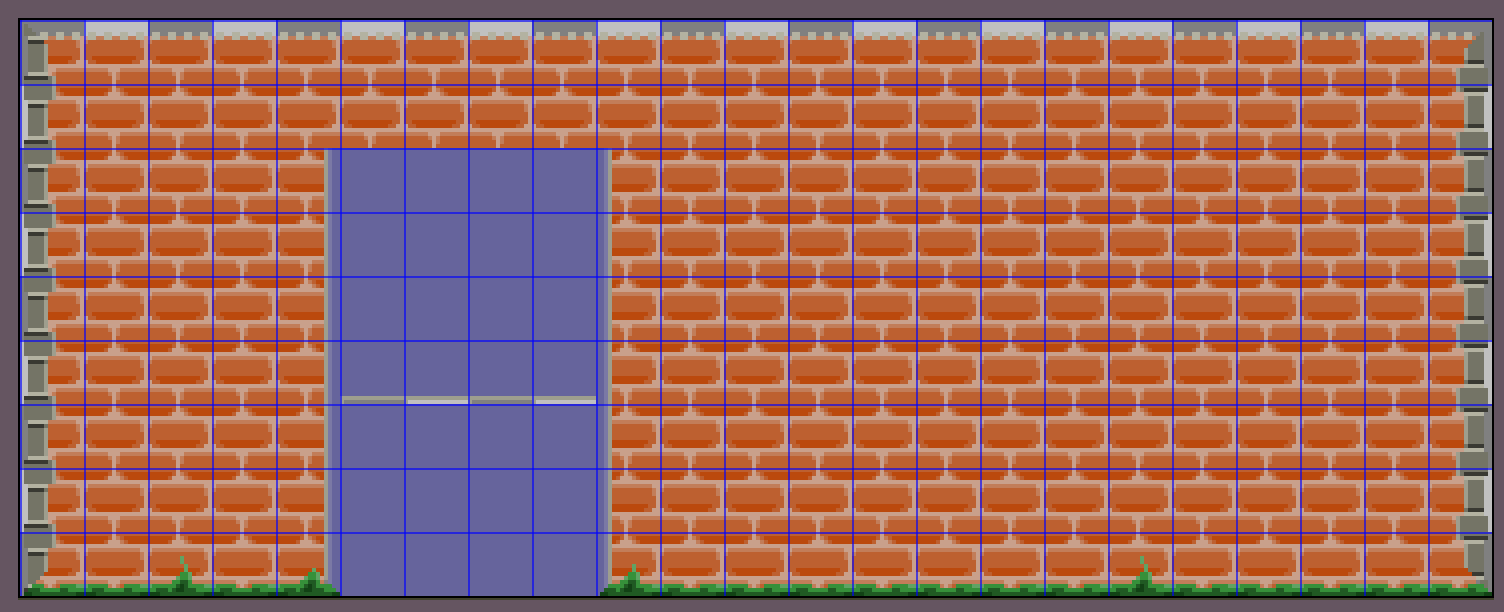
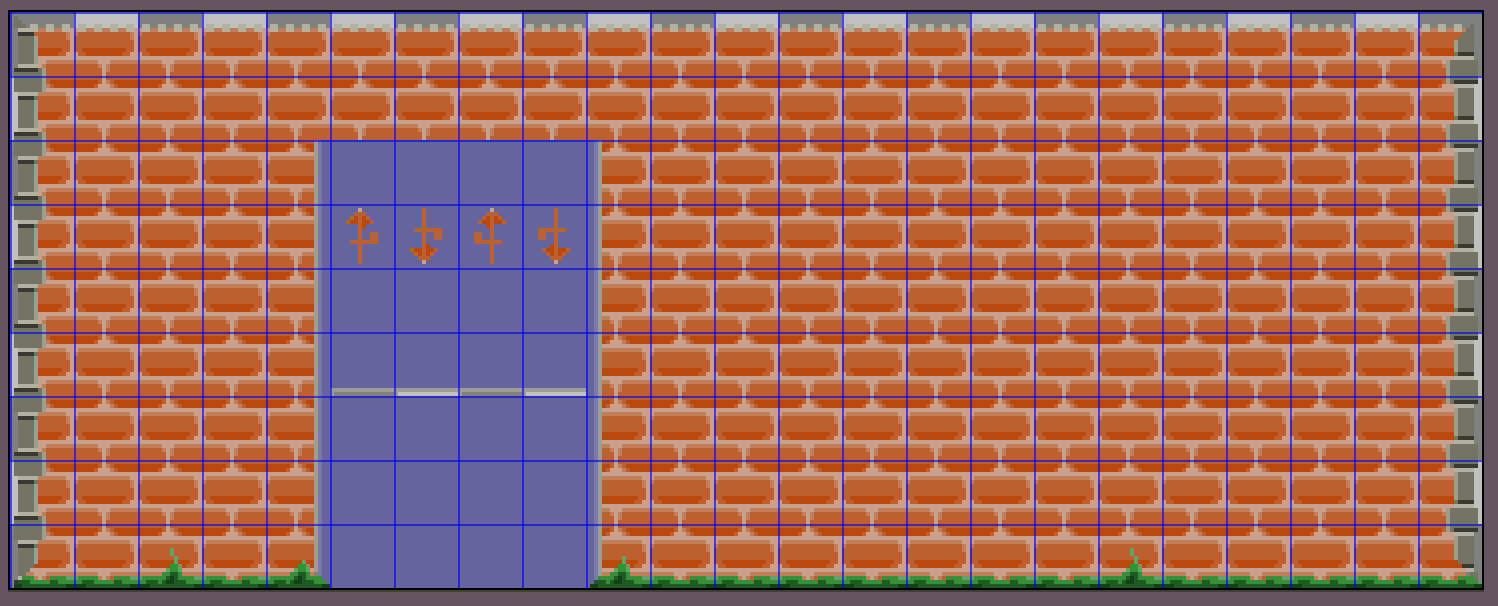
update documentation to include h and v flip

diff --git a/docs/ex_004.md b/docs/ex_004.md
@@ -53,6 +53,18 @@ And here's the result of assembling and poking all this data via the [tile_wall 
 
  The end result in both the BASIC and Assembly versions are the same. The assembly version is nice and fast. The BASIC version reminds me of a Next Generation episode where Picard experienced an entire lifetime in about 15 minutes elapsed time. You should have time to go and do something similar while you wait for the BASIC version to finish doing its thing.
 
+## Horizontal and Vertical Flip
+
+The more astute among you may have noticed the poorly-drawn set of symbols in the Tilemap:
+
+![tile_wall tiles](images/04-tile_wall-006.png)
+
+However if you look at the Imageset, only the first symbol is present:
+
+![tile_wall tiles](images/04-tile_wall-007.png)
+
+Non-text VERA display modes allow a vertical-flip and horizontal-flip flag to be set for each tile in a Tilemap, and the four tiles in our Aloevera Tilemap .png contain the unflipped original tile, the vertically-flipped version, the horizontally-flipped, and both flipped frames respectively. Aloevera is clever enough to recognise when an input Tile is the flipped version of a frame in the Imageset, and if it encouters a flipped tile it will output the original sorce index as well as the correct v and h flip fields at assembly time.
+
 ## More on Palette Alignment
 
 For a bit of futher clarity of the alignment rules above, let's consider a brief example from one of Aloevera's automated tests. This is a 2 Frame Imageset targeted at 2BPP (4 Colour Mode). Thus, each tile in the Imageset consists of indices from a range of 4 colours, and each range must start on a multiple of 16:
@@ -83,6 +95,4 @@ There's still plenty of work and future possibilities for Aloevera's Tilemap sup
 
 * The ability to 'append' maps together to create larger maps to be used in scrolling applications.
 * A better method of specifying the foreground and background colours for each tile in Text_16 mode.
-* 'Conflating' Tilemaps, essentially blowing Tilemap data to be the size of the target VERA map size.
-* Support for Tile rotation
 * Output assembly code that does the Tilemap loading
